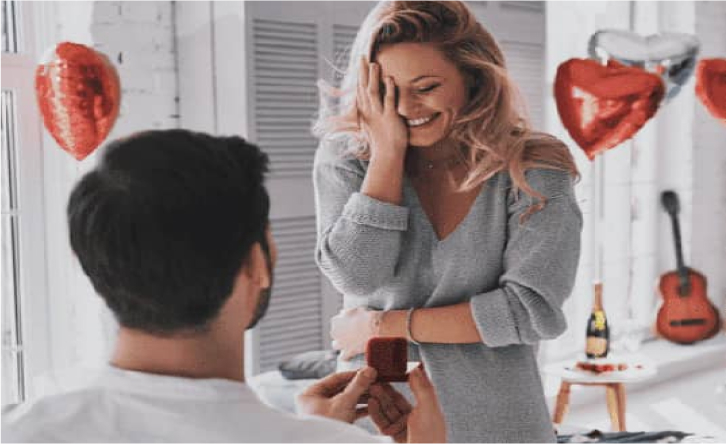
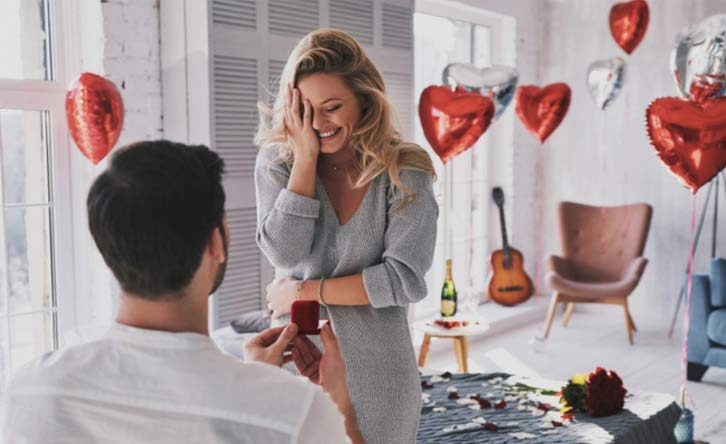
For staging changes move to live side

diff --git a/public/assets/css/custom.css b/public/assets/css/custom.css
@@ -127,6 +127,7 @@ transition: all 0.2s ease;}
 .mobile-wishlist{margin:0 9px 0 0}
 .mobile-wishlist a{color:#8e2e65;font-size:20px}
 .middle-topbar-left .whatsapp-top-h,.middle-topbar-left .location-top-h{display:inline-block;vertical-align:middle;margin:0 30px 0 0}
+.middle-topbar-left .location-top-h{margin: 0 15px 0 0;}
 .middle-topbar-left a{color:#878787;text-decoration:none; display: inline-block;}
 .middle-topbar-left a:hover{color:#8e2e65}
 .middle-topbar-left a i{color:#8e2e65;font-size:18px;padding:0 11px 0 0;position:relative;top:1px}
@@ -229,7 +230,7 @@ textarea.input-control{height:100px}
 
 
 /** header post bar css start **/
-.post-bar{background:#8e2e65;padding:7px 0;color:#fff}
+.post-bar{background:#8e2e65;padding:4px 0;color:#fff}
 .post-bar-wraper p{text-transform:uppercase; margin: 0;}
 .post-bar-center img{max-width:225px;height:44px}
 .post-bar-left,.post-bar-center,.post-bar-right{width:33.33%}
@@ -247,6 +248,8 @@ textarea.input-control{height:100px}
 .footer-social{margin:50px 0 0 0}
 .footer-social a{color:#fff;font-size:18px;margin:0 22px 0 0}
 .footer-social a:hover{opacity:.7}
+.footer-social a i.fa.fa-twitter {font-size: 0; vertical-align: top;}
+.footer-social a i.fa.fa-twitter:before{background: url(../images/twitter-white.png) no-repeat; width: 18px; height: 18px;display: inline-block;margin: 4px 0 0; background-size: 15px;}
 .footerlinks-col ul li{display:block}
 .footerlinks-col ul li a{color:#fff;text-decoration:none; font-weight: normal !important; font-size: 14px !important; padding: 0 0 2px;}
 .footerlinks-col ul li a:hover {border-bottom: 1px solid #fff;}
@@ -293,7 +296,7 @@ font-size: 14px;padding: 7px 16px;font-weight: bold;}
 .zopim {z-index: 9999 !important;}
 .head-para-three{text-align:center;margin:0 0 26px 0}
 .shopfrom-best{padding:63px 0 50px;}
-.product-info{text-align:center;padding:0 25px 20px}
+.product-info{text-align:center;padding:0 20px 20px}
 .product-info .product-item-details a {text-decoration: none;}
 .product-item-details{padding-top:10px}
 .product-titles{font-family:'Playfair Display';font-size:25px;color:#2b2b2b;line-height:1.2}
@@ -370,6 +373,7 @@ font-size: 14px;padding: 7px 16px;font-weight: bold;}
 .reviewr-review-text a{color:#9a9b9b;text-decoration:none; display: block;}
 .reviewr-review-text a:hover{color:#000}
 
+.container.review-section {padding: 0 2px;}
 .rating-review-block .owl-carousel {padding: 0 30px;}
 .rating-review-block{padding:30px 60px 40px}
 .rating-review-block .owl-dots .owl-dot span{width:5px;height:5px;margin:4px;background:#a0a0a0}
@@ -425,6 +429,16 @@ input.input-control{height:38px}
 /** share moment section css start here  **/
 .share-moment-heading{text-align:center}
 .share-moment{padding:50px 15px 50px 15px}
+.share-moment .owl-carousel {position: relative;}
+.share-moment .owl-carousel .owl-nav {    display: inline-block !important;}
+.share-moment .owl-carousel .owl-nav button {margin: 0;border: 3px solid rgba(255, 255, 255, 0.5);width: 50px;height: 50px;background: #8e2e65;color: #fff;text-align: center;
+background-position: center;background-image: url(../images/arrow-slide.png);background-repeat: no-repeat;}
+.share-moment .owl-carousel .owl-nav button.owl-prev {transform: translate(0, -50%);margin: 0 0 0 0;position: absolute;top: 50%;left: 15px;}
+.share-moment .owl-carousel .owl-nav button.owl-next {transform: translate(0, -50%) rotate(180deg);margin: 0 0 0 15px;position: absolute;top: 50%;right: 15px;}
+
+.share-moment .owl-carousel .owl-nav button span{ font-size:0px; }
+
+
 .insta-btn{text-align:center;margin:15px 0 0 0}
 .insta-btn .btn-bg-small{text-transform:none;font-size:14px;padding:10px 24px;font-weight:normal}
 .insta-btn .btn-bg-small i{padding:0 7px 0 0;font-size:15px}
@@ -440,7 +454,7 @@ background: linear-gradient(273deg, rgba(98, 40, 215, 1) 0%, rgba(238, 42, 123, 
 align-items: center;justify-content: center;border-radius: 50px;}
 
 /** product listing page start here **/
-.category-banner{ text-align: center; background-repeat: no-repeat; background-position: center; background-size: cover;padding: 40px 0; position: relative; margin:0 0 28px 0;}
+.category-banner{ text-align: center; background-repeat: no-repeat; background-position: center; background-size: cover;padding: 100px 0; position: relative; margin:0 0 28px 0;}
 .category-banner.engagement-banner {   padding: 178px 0;text-align: left;  }
 .category-banner.engagement-banner:before{background: transparent;}
 .category-banner-text {position: relative;}
@@ -543,6 +557,7 @@ z-index: 1;height: 30px;text-align: left;font-weight: 500;border: 1px solid #d6d
 .engagement-ring-img .engagement-ring-img-content h2 {max-width: 400px; width: 100%; color: #fff; font-size: 50px; line-height: 56px; }
 .engagement-ring-img .engagement-ring-img-content button {width: auto; background-color: #8e2e65; color: #fff; font-size: 15px; padding: 14px 26px; text-transform: uppercase;
 text-decoration: none; font-weight: 700; display: inline-block; border: 1px solid #8e2e65; margin:15px 0 15px;}
+.engagement-ring-img .engagement-ring-img-content button:hover {box-shadow: 5px 5px 0 rgba(0, 0, 0, 0.8);color: #fff;}
 .engagement-ring-img .engagement-ring-img-content button a {color: #fff;text-decoration: none;}
 
 
@@ -1646,10 +1661,12 @@ display: inline-block; color: #000; font-size: 15px; text-decoration: none;paddi
 .blog-carousel-item-slider .owl-carousel .item .blog-carousel-info .blog-carousel-image a img {height: 100%;object-fit: cover; width: 100%;}
 
 .blog-carousel-item-slider .owl-carousel .owl-nav button.owl-prev {top: 50%;transform: translateY(-50%);position: absolute;left: -12px;
-border: 3px solid rgba(255,255,255,0.5);width: 50px;height: 50px;background: #8e2e65;color: #fff;text-align: center;}
-.blog-carousel-item-slider .owl-carousel .owl-nav button.owl-next {top: 50%;transform: translateY(-50%);position: absolute;right: -12px;
-border: 3px solid rgba(255,255,255,0.5);width: 50px;height: 50px;background: #8e2e65;color: #fff;text-align: center;}
-.blog-carousel-item-slider .owl-carousel .owl-nav button span {font-size: 37px;line-height: 22px;}
+border: 3px solid rgba(255,255,255,0.5);width: 50px;height: 50px;background: #8e2e65;color: #fff;text-align: center;background-image: url(../images/arrow-slide.png);
+background-repeat: no-repeat; background-position: center;}
+.blog-carousel-item-slider .owl-carousel .owl-nav button.owl-next {top: 50%;transform: translateY(-50%) rotate(-180deg);position: absolute;right: -12px;
+border: 3px solid rgba(255,255,255,0.5);width: 50px;height: 50px;background: #8e2e65;color: #fff;text-align: center;background-image: url(../images/arrow-slide.png);
+background-repeat: no-repeat;background-position: center;}
+.blog-carousel-item-slider .owl-carousel .owl-nav button span {font-size: 37px;line-height: 22px; font-size: 0}
 /*engagement ring blog slider css end*/
 
 /*404 page css*/

diff --git a/public/assets/css/responsive.css b/public/assets/css/responsive.css
@@ -1,5 +1,8 @@
 
 /** Responsive Media Query **/
+@media(max-width:1500px){
+.product-item-details p del#rrpPrice{display: block;}
+}
 
 @media(max-width:1400px){
 	.friendy-expert-sec .friendy-expert-desc h3 {font-size: 24px;}
@@ -131,11 +134,13 @@
 	@media(max-width: 500px){
 		.product-grid-items-item{flex: 0 0 100%;max-width: 100%;-ms-flex: 0 0 100%;}
 		.type-variations-col{flex: 0 0 100%;-ms-flex: 0 0 100%;max-width: 100%; margin: 0 0 10px 0;}
-		.product-add-cart{ display: block; }
+		.product-add-cart{ /*display: block;*/ }
+		.btn-bg-small{font-size: 10px;padding: 11px 6px;}
 		.product-to-wishlist, .product-to-basket {display: inline-block;vertical-align: middle;}
-		.product-req-appointment{ margin-top: 10px; }
+		.product-req-appointment{ margin-top: 0px; }
 		.finance-available a p{font-size: 14px;}
 		.product-items-item-image a{/*max-height: 100%;*/}
+		.product-to-basket { margin: 0 10px 0 10px;}
 	}
 	@media(max-width: 1024px){
 
@@ -545,6 +550,10 @@ display: inline-block;right: 0;position: absolute;}
 /*checkout css*/
 /* .checkout-order-review {margin: 0 0 30px 0px;} */
 /*checkout css end*/
+
+
+.container.review-section {padding: 0 30px;}
+
 	}
 	
 @media(max-width:767px){
@@ -642,7 +651,7 @@ a.btn-bg-small.expdia{ font-size:13px }
 /*morley best selling css end*/
 
 /*shop diamond css*/
-.rating-review-block .owl-carousel {padding: 0 10px;}
+.rating-review-block .owl-carousel {padding: 0 30px;}
 .shopfrom-block {padding: 45px 0 0px 0;background: #fbfaff;margin-bottom: 50px;}
 .shopfrom-block .reviews-cont {padding: 15px 15px;border: 1px solid #f0f0f0;height: 100%;position: relative; background: #fff;}
 .shopfrom-block .rating-review-block .owl-carousel .owl-nav button {border: 2px solid rgba(255, 255, 255, 0.5);width: 33px;height: 33px;color: #fff;opacity: 1;text-align: center;}
@@ -691,8 +700,8 @@ height: 20px;position: absolute;left: 32%;top: 46%;transform: translate(-50%, -5
 /** visit us page css**/
 
 
-.instaphoto-img{ height:300px; }
-.insta-photo-list .owl-carousel .instaphoto-img img {height: 100% !important;object-fit: cover;}
+.instaphoto-img{ /*height:300px;*/ }
+.insta-photo-list .owl-carousel .instaphoto-img img {height: 100% !important;/* object-fit: cover; */width: auto !important;}
 
 .category-list-item-searchsort.dropdown-content-desktop {position: relative;}
 .category-list-item-searchsort.dropdown-content-desktop:before {content: '';font-family: 'FontAwesome';font-size: 15px;position: absolute;top: 9px;left: 26px; display: block;}
@@ -733,6 +742,7 @@ height: 20px;position: absolute;left: 32%;top: 46%;transform: translate(-50%, -5
 	.category-sidebar-wrap .reset-filer-container a#resetFilterButton{ width:100%; }
 
 	/*product list page css*/
+.owl-carousel.listing-slider{padding: 0 55px}
 .owl-carousel.listing-slider .owl-nav button.owl-prev {left: 15px;}
 .owl-carousel.listing-slider .owl-nav button.owl-next {right: 15px;}
 /*product list page css end*/
@@ -774,7 +784,12 @@ div#trustpilot-gtm-floating-wrapper {display: none !important;}
 .checkout-order-table table tr td { padding: 13px 10px;}
 .checkout-order-table table tr td .plancare-section {padding: 10px 8px 15px;}
 .visit-showrooms-image img.img-fluid {height: auto;margin: 0 0 30px;}
-	}
+
+
+.share-moment .owl-carousel .owl-nav button{border: 2px solid rgba(255, 255, 255, 0.5);width: 33px;height: 33px;color: #fff;opacity: 1;text-align: center;} 
+
+
+}
 	
 	
 	
@@ -863,6 +878,9 @@ body .fancybox-navigation .fancybox-button--arrow_left {padding: 0;width: 30px;h
 /*finance options modal css end*/
 
 /* .checkout-payment-options ul li.cc_payment_methods.paypalpaymentgateway_wrap i.diamond-icon.paypent-checkout {    width: 133px;} */
+
+
+.container.review-section {padding: 0 23px;}
 }
 
 @media(max-width:350px){

diff --git a/public/assets/js/custom.js b/public/assets/js/custom.js
@@ -62,8 +62,8 @@ $(document).ready(function () {
     $(".owlslidercategoryprecontent").owlCarousel({ loop: !0, margin: 20, nav: !0, dots: !1, responsive: { 0: { items: 1 }, 600: { items: 2 }, 767: { items: 2 }, 992: { items: 3 }, 1200: { items: 4 }, } }),
     $(".owlslidertwo").owlCarousel({ loop: !0, margin: 20, nav: !0, dots: !1, responsive: { 0: { items: 1 }, 575: { items: 2 }, 991: { items: 4 }, 1400: { items: 4 } } }),
     $(".blog-carousel-engagement").owlCarousel({ loop: !0, margin: 20, nav: !0, dots: !1, responsive: { 0: { items: 1 }, 575: { items: 2 }, 991: { items: 3 }, 1400: { items: 4 } } }),
-    $(".slider-review").owlCarousel({ loop: !0, margin: 30, nav: !0, responsive: { 0: { items: 1 }, 600: { items: 3 }, 1e3: { items: 4 } } }),
-    $(".photo-slider").owlCarousel({ loop: !0, margin: 10, nav: !1, responsive: { 0: { items: 1 }, 600: { items: 3 }, 1e3: { items: 5 } } }),
+    $(".slider-review").owlCarousel({ loop: !0, margin: 30, nav: !0, responsive: { 320: { items: 1 }, 480: { items: 2 }, 769: { items: 3 }, 1e3: { items: 4 } } }),
+    $(".photo-slider").owlCarousel({ loop: !0, margin: 10, nav: !1, responsive: { 320: { items: 1 },480: { items: 2 },769: { items: 3 },1300: { items: 4 },1500: { items: 5 } } }),
     $(".mobil-bar").owlCarousel({ loop: !0, margin: 10, nav: !1, dots: !1, responsive: { 0: { items: 1 }, 600: { items: 1 }, 1e3: { items: 1 } } }),
     $("#scroll-to-top").on("click", function () {
         $("html, body").animate({ scrollTop: $("html, body").offset().top });

diff --git a/resources/views/front/pages/product_listing_page.blade.php b/resources/views/front/pages/product_listing_page.blade.php
@@ -566,7 +566,7 @@
 <!-- FAQ Section start here -->
 
 <!-- Section Reviews -->
-<div class="container">
+<div class="container review-section">
     <div class="rating-review-block">
         <div class="owl-carousel owl-theme slider-review">
             @include('front.pages.reviews')
@@ -1223,22 +1223,25 @@
 
     $(function() {
         var owl = $(".owl-carousel");
-        owl.owlCarousel({
+         owl.owlCarousel({
             items: 7,
             margin: 2,
             loop: true,
             nav: true,
             responsive: {
                 320: {
-                    items: 2
+                    items: 1
                 },
                 480: {
-                    items: 3
+                    items: 2
                 },
                 769: {
-                    items: 4
+                    items: 3
                 },
                 991: {
+                    items: 5
+                },
+                1100: {
                     items: 6
                 }
             }
